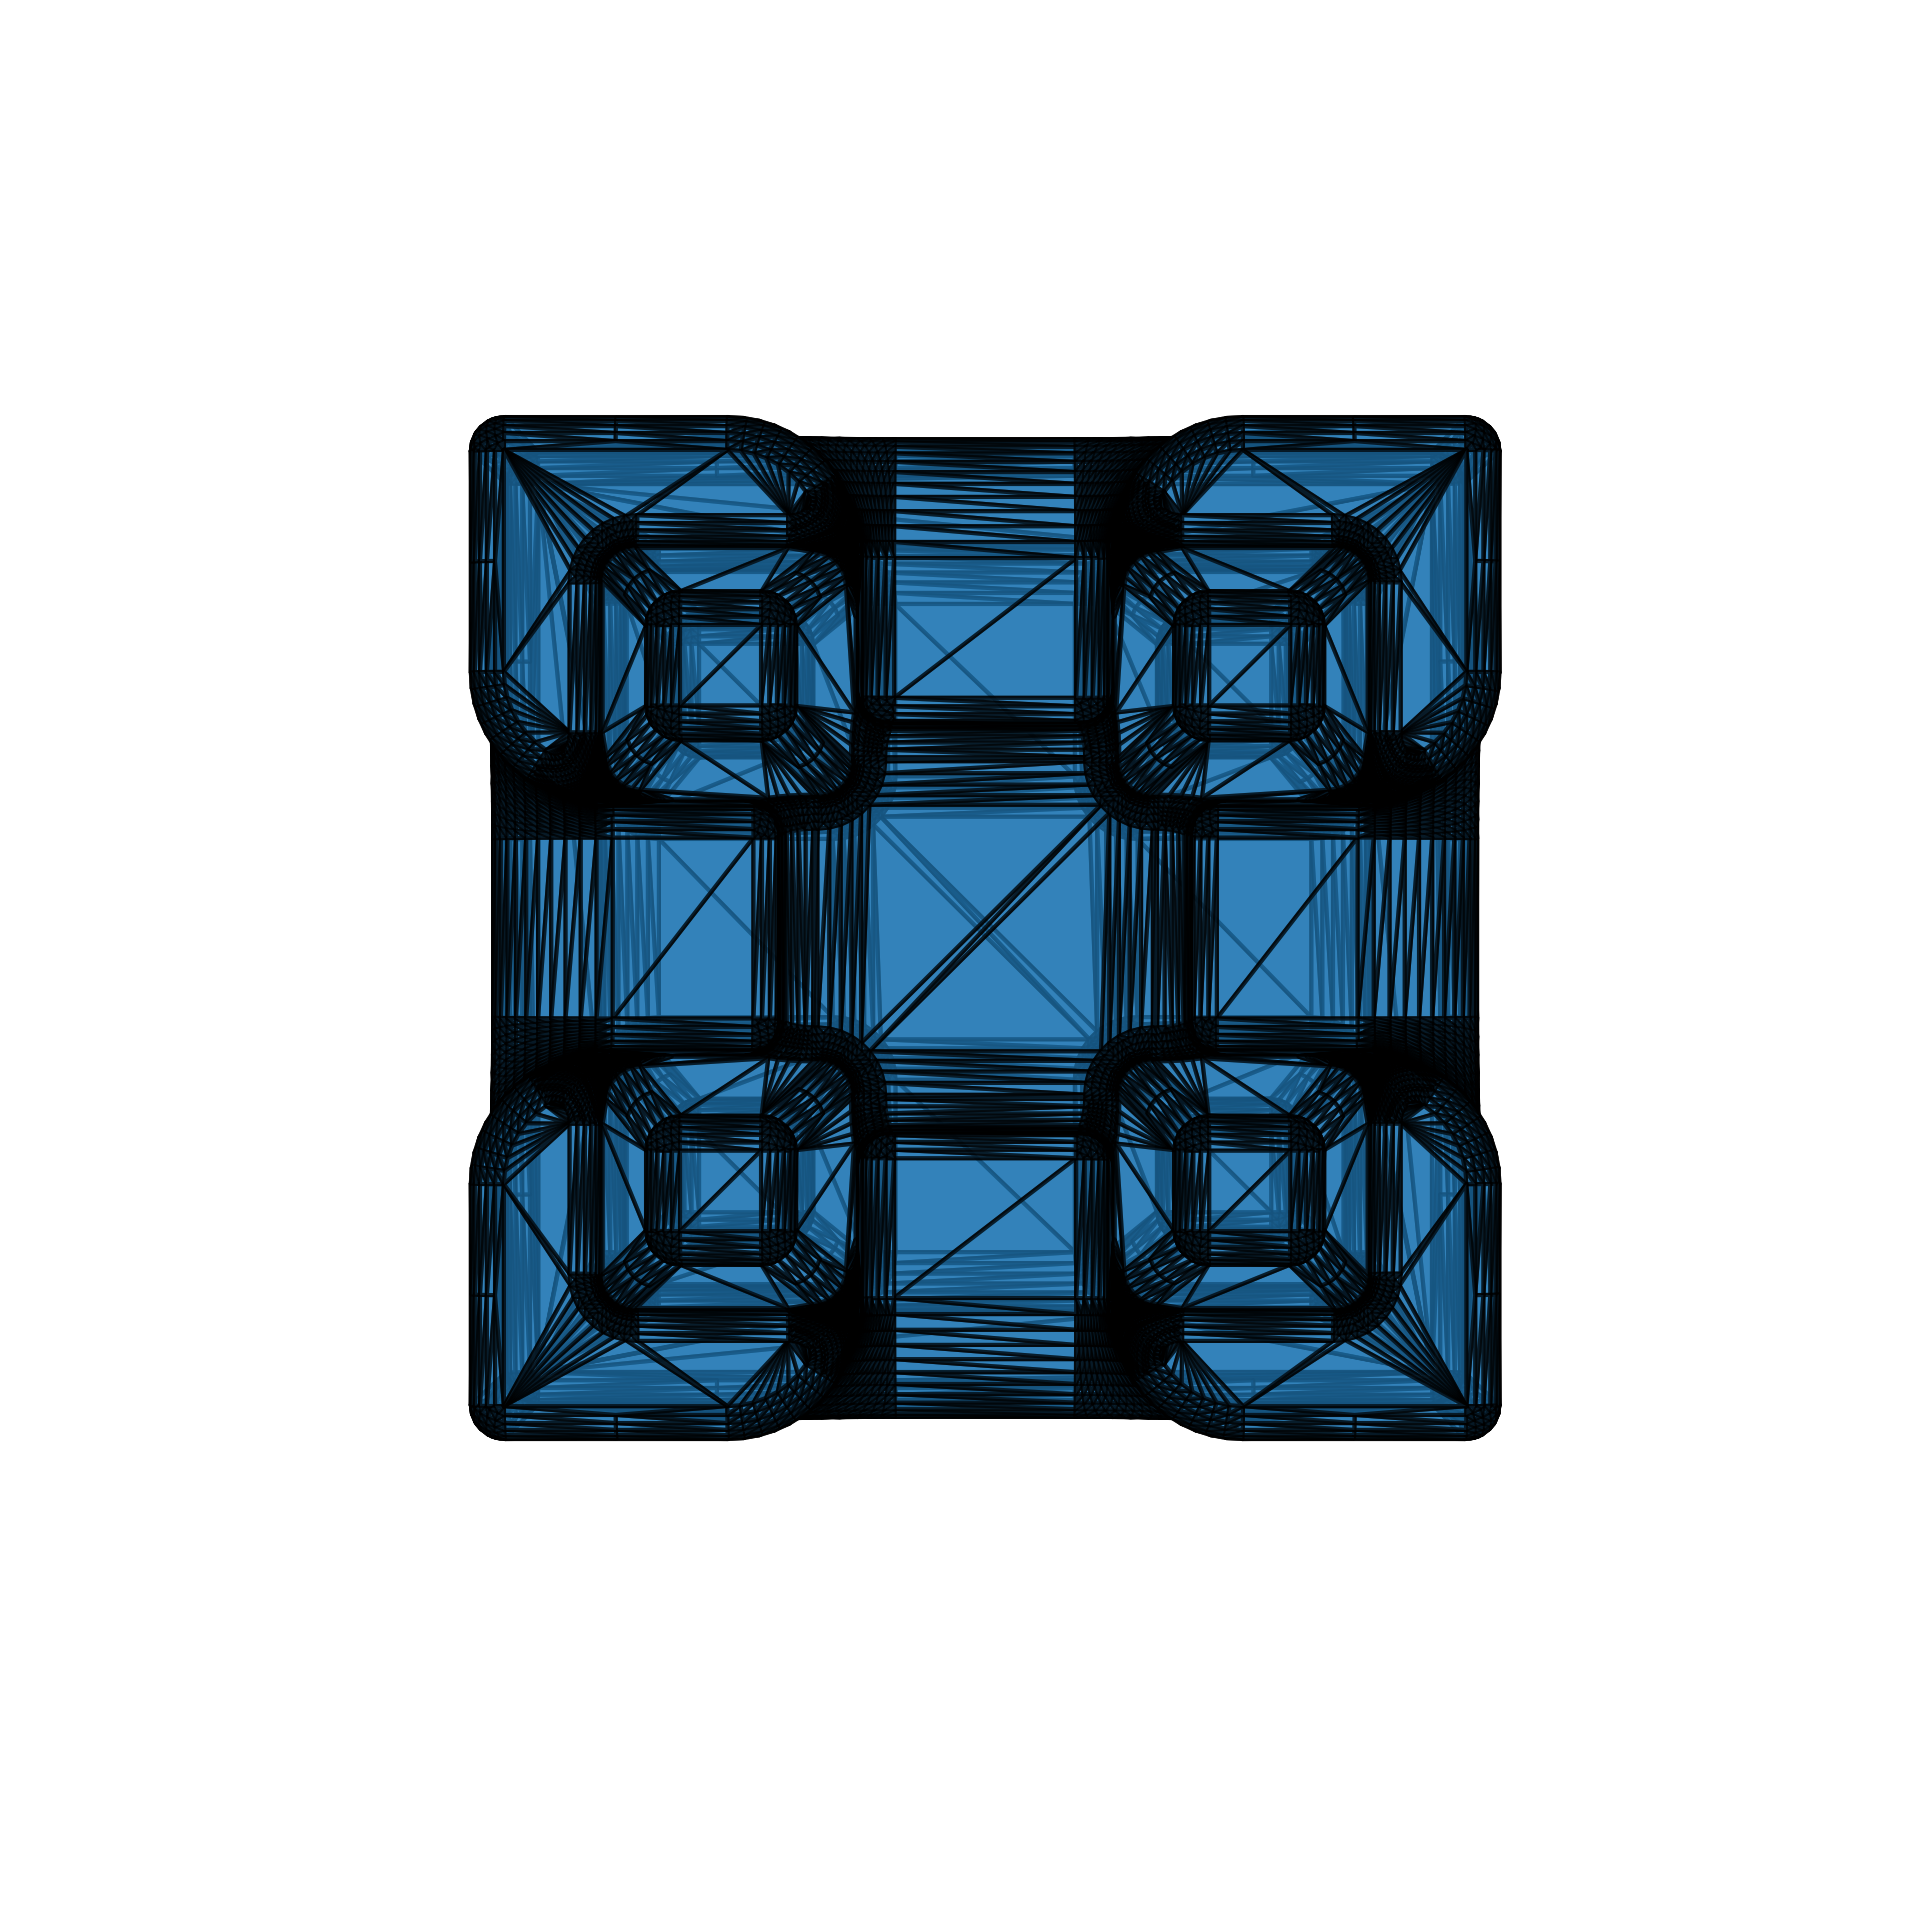
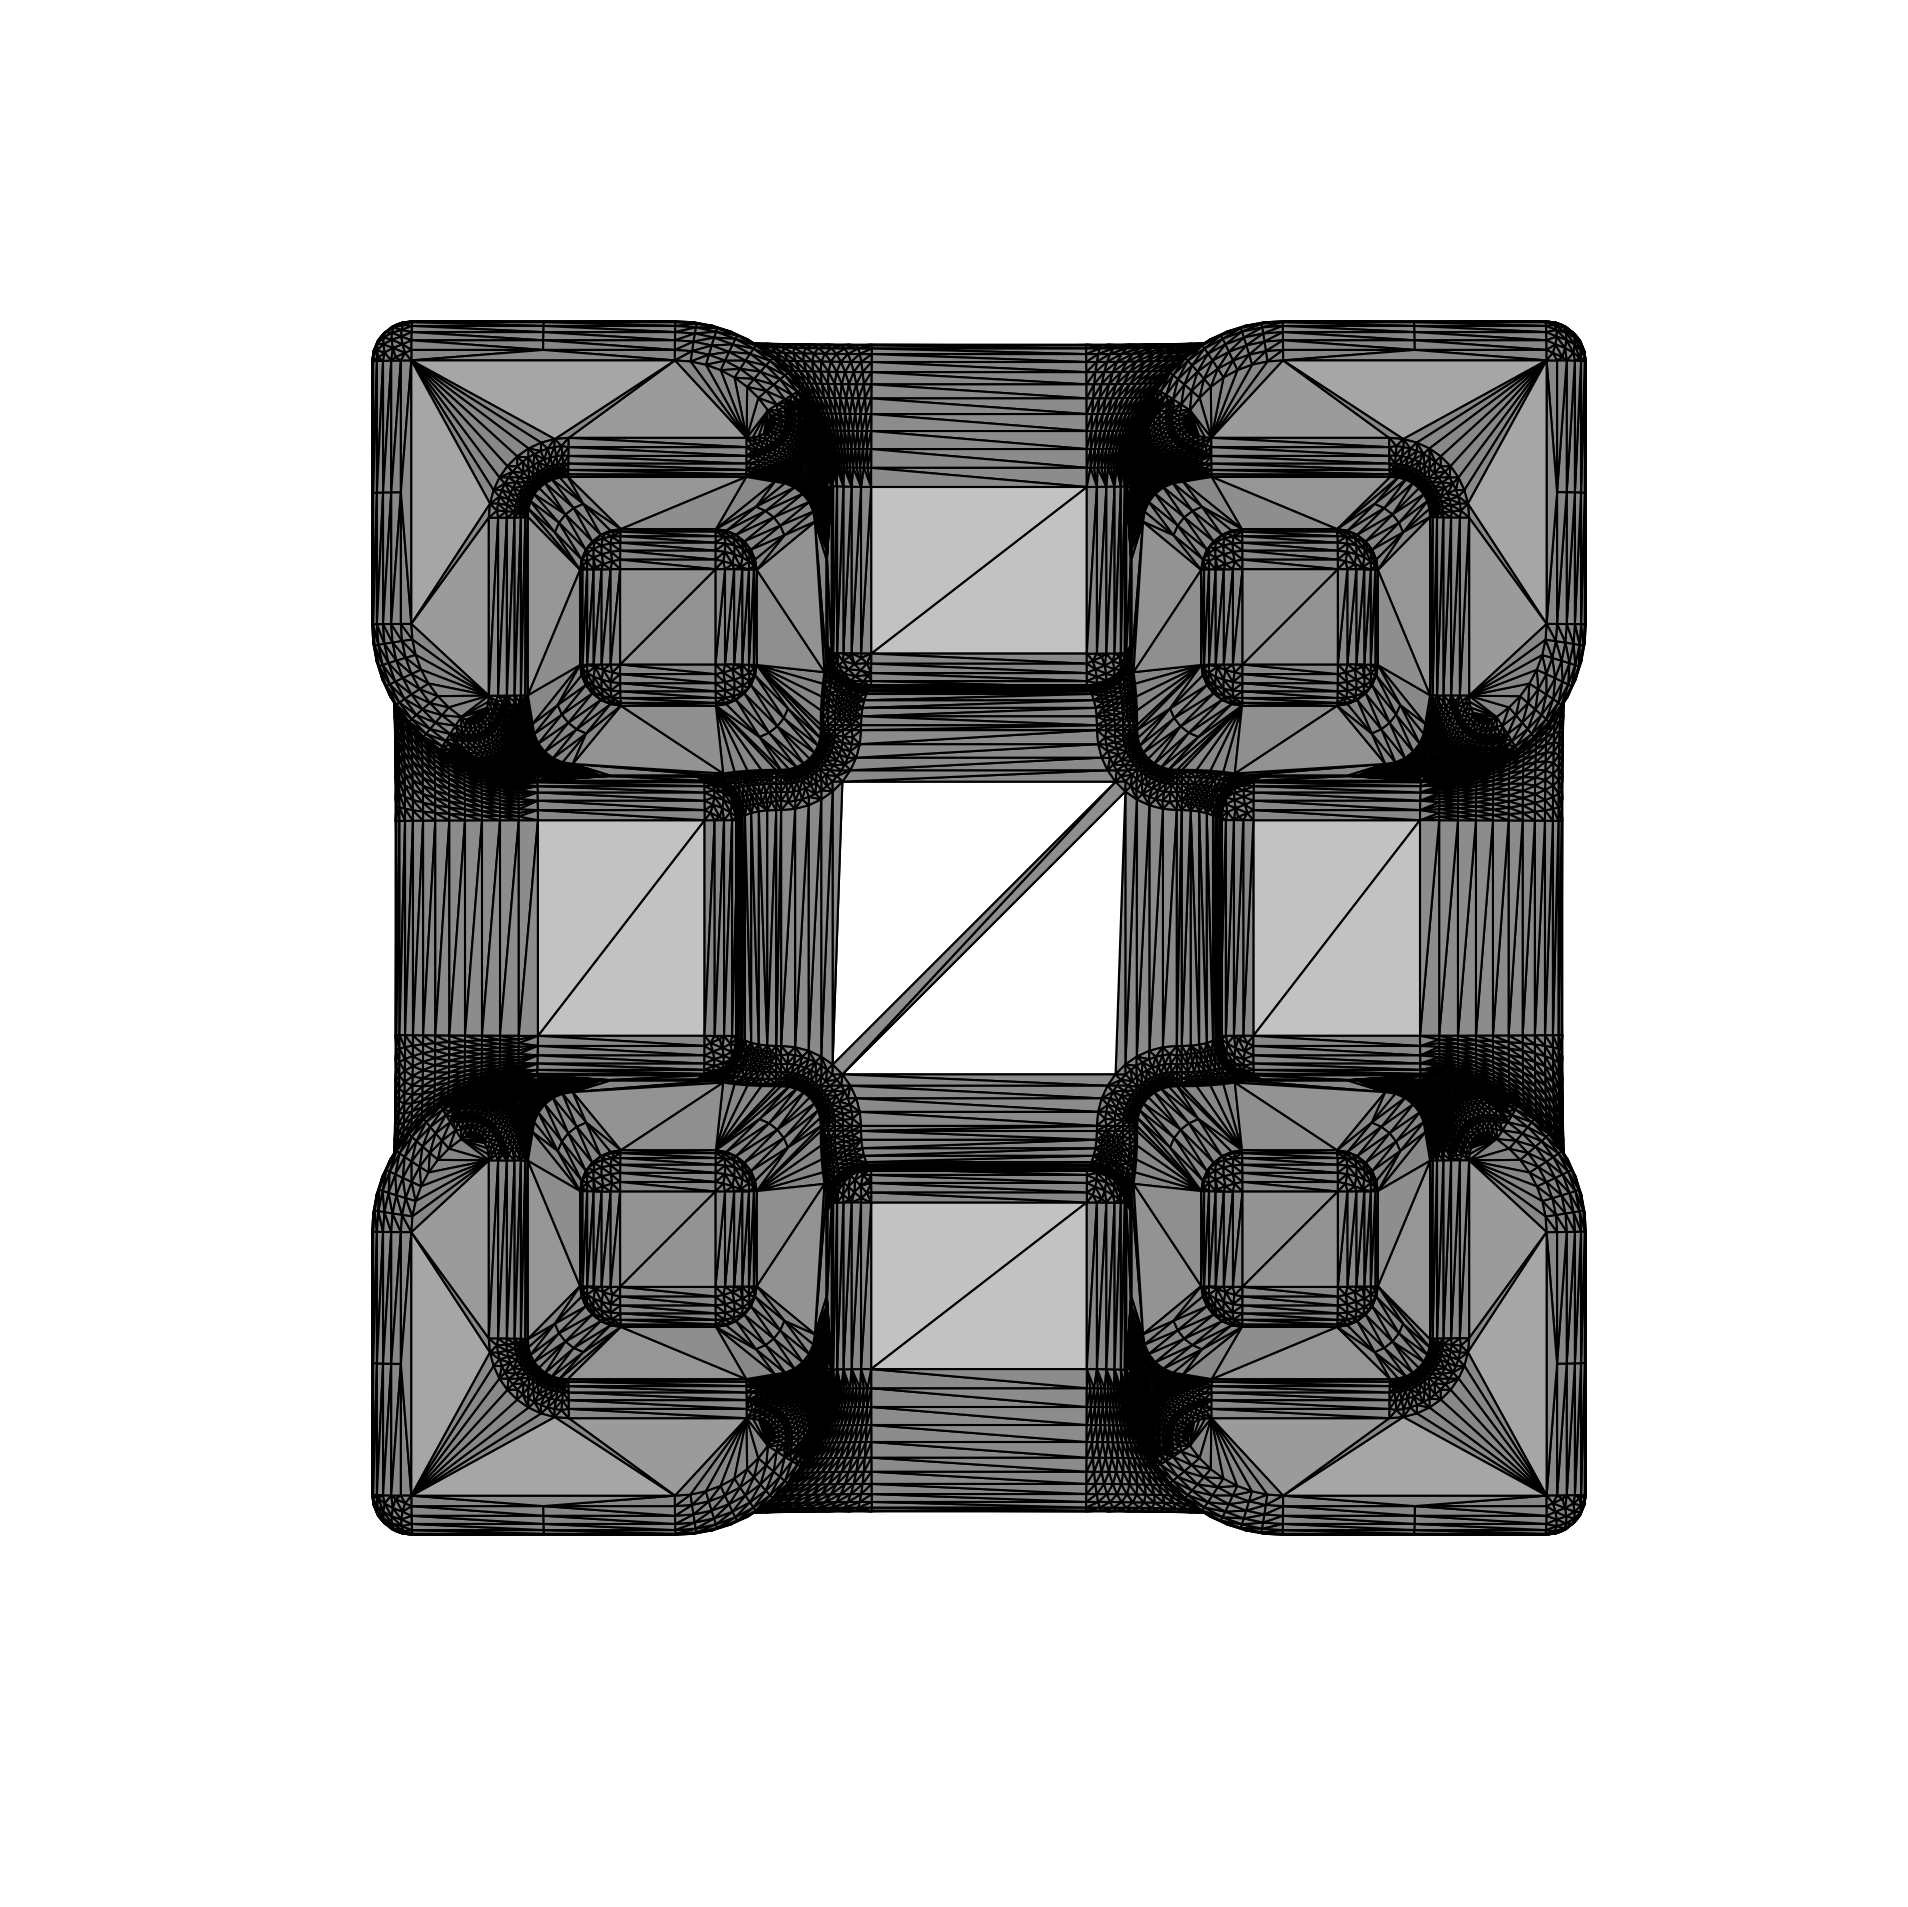
local stuff

diff --git a/in_gen/local_testing/test_vis.py b/in_gen/local_testing/test_vis.py
@@ -1,0 +1,269 @@
+import cv2
+from stl import mesh
+import numpy as np
+import matplotlib.pyplot as plt
+from mpl_toolkits.mplot3d.art3d import Poly3DCollection
+import time
+import os
+import glob
+
+
+import os
+import numpy as np
+import matplotlib.pyplot as plt
+from mpl_toolkits.mplot3d.art3d import Poly3DCollection
+from stl import mesh
+import bpy
+import math
+import os
+import sys
+from mathutils import Vector, Euler
+from PIL import Image
+
+
+def plot_stl_views(stl_file, output_top_down, output_top_left, image_size=512):
+    # Utility functions
+    def clean_scene():
+        # Remove all existing objects
+        bpy.ops.object.select_all(action='SELECT')
+        bpy.ops.object.delete()
+
+    def import_stl(filepath):
+        # Import STL mesh
+        bpy.ops.import_mesh.stl(filepath=filepath)
+        obj = bpy.context.selected_objects[0]
+        return obj
+
+    def setup_camera(elev_deg, azim_deg):
+        # Create a camera if it doesn't exist
+        if "Camera" not in bpy.data.objects:
+            bpy.ops.object.camera_add(location=(0, 0, 0))
+        camera = bpy.data.objects["Camera"]
+
+        # Set rotation
+        # We start with camera looking down -Z axis:
+        # Then apply azimuth rotation around Z and elevation around X
+        eul = Euler((0, 0, 0), 'XYZ')
+        eul.rotate_axis('Z', math.radians(azim_deg))
+        eul.rotate_axis('X', math.radians(elev_deg))
+        camera.rotation_euler = eul
+        return camera
+
+    def fit_camera_to_object(obj, camera, margin=1.2):
+        # Compute bounding box
+        bbox = [obj.matrix_world @ Vector(corner) for corner in obj.bound_box]
+        min_coords = Vector((min([v.x for v in bbox]),
+                             min([v.y for v in bbox]),
+                             min([v.z for v in bbox])))
+        max_coords = Vector((max([v.x for v in bbox]),
+                             max([v.y for v in bbox]),
+                             max([v.z for v in bbox])))
+
+        center = (min_coords + max_coords) / 2.0
+        diag = (max_coords - min_coords).length
+
+        bpy.context.scene.camera = camera
+        fov = camera.data.angle  # field of view in radians
+        distance = (diag/2) / math.tan(fov/2) * margin
+
+        # Move camera along its local -Z axis
+        direction = camera.matrix_world.to_quaternion() @ Vector((0.0, 0.0, -1.0))
+        camera.location = center - direction * distance
+
+    def setup_light():
+        # Create a Sun light if none exists
+        bpy.ops.object.light_add(type='SUN', location=(0, 0, 10))
+        light = bpy.context.active_object
+        light.data.energy = 5.0
+
+        # White world background
+        bpy.context.scene.world.use_nodes = True
+        bg = bpy.context.scene.world.node_tree.nodes["Background"]
+        bg.inputs[0].default_value = (1, 1, 1, 1)
+        bg.inputs[1].default_value = 1.0
+
+    def setup_material(obj):
+        # Create a simple gray material
+        mat = bpy.data.materials.new(name="GrayMaterial")
+        mat.diffuse_color = (0.5, 0.5, 0.5, 1.0)
+        if len(obj.data.materials) == 0:
+            obj.data.materials.append(mat)
+        else:
+            obj.data.materials[0] = mat
+
+    def render_to_file(filepath):
+        bpy.context.scene.render.filepath = filepath
+        bpy.ops.render.render(write_still=True)
+        # Convert to grayscale
+        img = Image.open(filepath)
+        gray = img.convert('L')
+        gray.save(filepath)
+
+    # Begin setup
+    clean_scene()
+    obj = import_stl(stl_file)
+    setup_material(obj)
+    setup_light()
+
+    # Set render settings
+    scene = bpy.context.scene
+    scene.render.engine = 'CYCLES'  # or 'BLENDER_EEVEE'
+    scene.cycles.samples = 64
+    scene.render.resolution_x = image_size
+    scene.render.resolution_y = image_size
+    scene.render.resolution_percentage = 100
+
+    # Render top-down view
+    cam_top_down = setup_camera(elev_deg=90, azim_deg=0)
+    fit_camera_to_object(obj, cam_top_down)
+    render_to_file(output_top_down)
+
+    # Render top-left view
+    cam_top_left = setup_camera(elev_deg=45, azim_deg=-45)
+    fit_camera_to_object(obj, cam_top_left)
+    render_to_file(output_top_left)
+
+
+def setup():
+    # Generate views for all objects in the folder and place into the generated_views folder
+    path_to_objects = "../sawyer/CV/src/object_stls"
+    path_to_views = "../sawyer/CV/src/generated_views"
+    files_and_objects = os.listdir(path_to_objects)
+
+    for obj in files_and_objects:
+        if not obj.lower().endswith('.stl'):
+            continue
+        wout_stl = obj.replace('.stl', '')
+        full_obj_path = f"{path_to_objects}/{obj}"
+        output_top_down = f"{path_to_views}/{wout_stl}_top_down_view.png"
+        output_top_left = f"{path_to_views}/{wout_stl}_top_left_corner_view.png"
+        if not (os.path.exists(output_top_down) and os.path.exists(output_top_left)):
+            plot_stl_views(full_obj_path, output_top_down, output_top_left)
+
+
+def run_cv(current_frame, background, number_objects=1):
+    # If no background is available, just return the current frame
+    if background is None:
+        return current_frame, None
+
+    # Convert to grayscale
+    gray_current = cv2.cvtColor(current_frame, cv2.COLOR_BGR2GRAY)
+    gray_background = cv2.cvtColor(background, cv2.COLOR_BGR2GRAY)
+
+    # Compute absolute difference between current frame and background
+    diff = cv2.absdiff(gray_background, gray_current)
+
+    # Threshold the difference image
+    _, thresh = cv2.threshold(diff, 50, 255, cv2.THRESH_BINARY)
+
+    # Morphological operations to clean up noise
+    kernel = cv2.getStructuringElement(cv2.MORPH_ELLIPSE, (3, 3))
+    thresh = cv2.morphologyEx(thresh, cv2.MORPH_OPEN, kernel)
+
+    # Find contours
+    contours, _ = cv2.findContours(
+        thresh, cv2.RETR_EXTERNAL, cv2.CHAIN_APPROX_SIMPLE)
+
+    rectangles = []
+    # Basic criterion: bounding boxes that are not too small
+    for contour in contours:
+        x, y, w, h = cv2.boundingRect(contour)
+        if w > 20 and h > 20:  # arbitrary minimal size filter
+            rectangles.append((x, y, w, h))
+
+    # Sort rectangles by area in descending order
+    rectangles = sorted(rectangles, key=lambda r: -(r[2]*r[3]))
+
+    matched_object = None
+    if len(rectangles) > 0:
+        # Attempt object recognition using template matching
+        path_to_views = "../sawyer/CV/src/generated_views"
+        generated_views = glob.glob(os.path.join(path_to_views, "*_view.png"))
+
+        for rect_ind in range(min(len(rectangles), number_objects)):
+            x, y, w, h = rectangles[rect_ind]
+            roi = current_frame[y:y+h, x:x+w]
+            roi_gray = cv2.cvtColor(roi, cv2.COLOR_BGR2GRAY)
+
+            best_match_score = 0.0
+            best_view = None
+            scores = []  # Store (view_file, score) for debugging
+
+            for view_file in generated_views:
+                template = cv2.imread(view_file, cv2.IMREAD_GRAYSCALE)
+                if template is None:
+                    continue
+
+                # Resize template to match ROI size
+                template_resized = cv2.resize(template, (w, h))
+
+                res = cv2.matchTemplate(
+                    roi_gray, template_resized, cv2.TM_CCOEFF_NORMED)
+                _, max_val, _, _ = cv2.minMaxLoc(res)
+
+                scores.append((view_file, max_val))
+
+                if max_val > best_match_score:
+                    best_match_score = max_val
+                    best_view = view_file
+
+            # After checking all views
+            if best_match_score >= 0.9:
+                matched_object = best_view
+                cv2.rectangle(current_frame, (x, y),
+                              (x+w, y+h), (0, 255, 0), 2)
+                cv2.putText(current_frame, f"Matched: {os.path.basename(best_view)} ({best_match_score:.2f})",
+                            (x, y-10), cv2.FONT_HERSHEY_SIMPLEX, 0.5, (0, 255, 0), 2)
+            else:
+                # Print no match and the best score, plus the scores for each template
+                cv2.rectangle(current_frame, (x, y),
+                              (x+w, y+h), (0, 0, 255), 2)
+                no_match_text = f"No match ({best_match_score:.2f})"
+                cv2.putText(current_frame, no_match_text,
+                            (x, y-10), cv2.FONT_HERSHEY_SIMPLEX, 0.5, (0, 0, 255), 2)
+
+                # Print scores for each template tried (for debugging)
+                # This will print in the console
+                print("No match for this object. Scores were:")
+                for vf, sc in scores:
+                    print(
+                        f"  Template: {os.path.basename(vf)}, Score: {sc:.2f}")
+
+    return current_frame, matched_object
+
+
+if __name__ == "__main__":
+    # Setup
+    setup()
+
+    # Open the default camera
+    cap = cv2.VideoCapture(0)
+
+    if not cap.isOpened():
+        print("Cannot access the camera")
+        exit(1)
+
+    background = None
+    print("Press 'b' to set the background. Press 'q' to quit.")
+
+    while True:
+        ret, frame = cap.read()
+        if not ret:
+            print("Failed to read from camera. Exiting...")
+            break
+
+        processed_frame, matched_object = run_cv(frame, background)
+
+        # Display the processed frame
+        cv2.imshow("Camera", processed_frame)
+
+        key = cv2.waitKey(1) & 0xFF
+        if key == ord('q'):
+            break
+        elif key == ord('b'):
+            # Capture the current frame as background
+            background = frame.copy()
+            print("Background set.")
+
+    cap.release()
+    cv2.destroyAllWindows()
